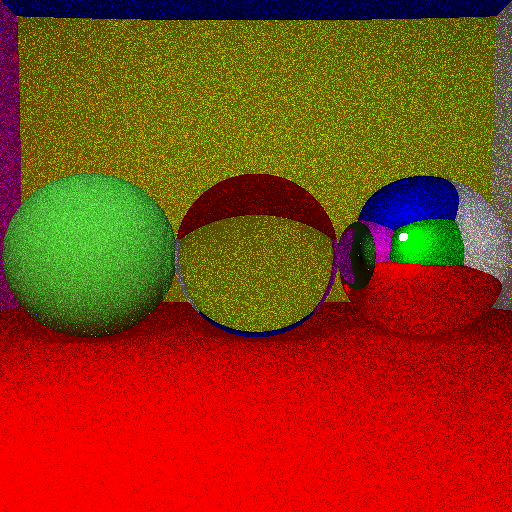
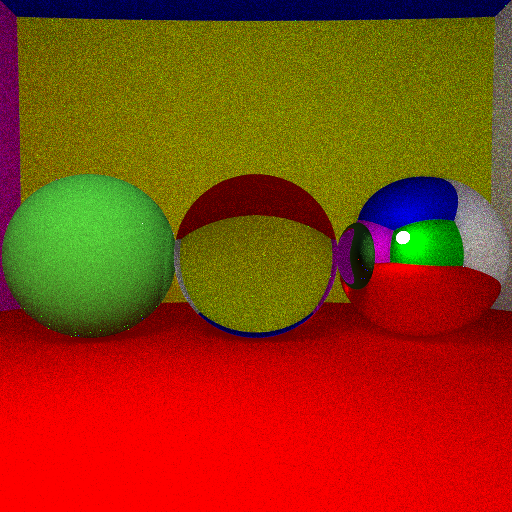
Application de la profondeur de champ. Image générée au bout de 241 secondes (car on a augmenté le nombre de rayons émis par pixel)

diff --git a/main.cpp b/main.cpp
@@ -100,7 +100,7 @@ int main() {
 	int W = 512; // Largeur de l'image
 	int H = 512; // Hauteur de l'image
 
-	int ratioRayPerPixel = 100; // Nombre de rays envoyes pour chaque pixel (pour l'eclairage indirecte)
+	int ratioRayPerPixel = 200; // Nombre de rays envoyes pour chaque pixel (pour l'eclairage indirecte)
 	
 	/* Test de la classe Vect
 	Vect u(2, 3, 4);
@@ -127,7 +127,8 @@ int main() {
 	double fieldOfView = 60 * M_PI / 180; // Champ de vision
 
 	bool useGammaCorrection = true; // true : Activation de la correction Gamma
-	bool useAntiAliasing = false; // true : Activation de l'anti-crenelage
+	bool useAntiAliasing = true; // true : Activation de l'anti-crenelage
+	bool useDepthOfField = true; // true : Activation de l'effet de profondeur de champ
 	double lightIntensity;
 
 	if (useGammaCorrection) {
@@ -146,9 +147,9 @@ int main() {
 	scene.setLightOrigin(lightOrigin);
 
 	//Declaration des elements de la scene
-	Sphere lumiere(scene.getLightOrigin(), 5, Vect(255., 255., 255.)); // Lampe spherique
-	Sphere Sdiffuse(Vect(-20, 0, 0), 10, Vect(21., 137., 10.)); // Sphere principale verte
-	Sphere Smiroir(Vect(20, 0, 0), 10, Vect(21., 137., 10.), true); // Sphere principale miroir
+	Sphere lumiere(scene.getLightOrigin(), 7, Vect(255., 255., 255.)); // Lampe spherique
+	Sphere Sdiffuse(Vect(-15, 0, 20), 10, Vect(21., 137., 10.)); // Sphere principale verte
+	Sphere Smiroir(Vect(15, 0, -20), 10, Vect(21., 137., 10.), true); // Sphere principale miroir
 	Sphere Stransparente(Vect(0, 0, 0), 10, Vect(21., 137., 10.), false, true); // Sphere principale transparente
 	Sphere sol(Vect(0, -1000, 0), 990, Vect(255., 0., 0.));
 	Sphere plafond(Vect(0, 1000, 0), 940, Vect(0., 0., 255.));
@@ -177,7 +178,7 @@ int main() {
 #pragma omp parallel for schedule(dynamic,1)
 	for (int i = 0; i < H; i++) {
 		if (i % 50 == 0) {
-			cout << i << endl;
+			cout << i << " / " << H << " lignes parcourues" << endl;
 		}
 		for (int j = 0; j < W; j++) {
 
@@ -205,7 +206,35 @@ int main() {
 					// La direction du ray est pertubee par l'ajout du vecteur (x, y, 0)
 					Vect disturbedDirection(j - W / 2 + x + 0.5, i - H / 2 + y + 0.5, -W / (2. * tan(fieldOfView / 2)));
 					disturbedDirection = disturbedDirection.normalize(); // la direction du rayon doit toujours etre normee
-					Ray disturbedRay(cameraOrigin, disturbedDirection); // Ray partant de la camera vers une zone voisine au centre du pixel de l'image
+					Ray disturbedRay(Vect(0., 0., 0.), Vect(0., 0., 0.)); // Ray partant de la camera vers une zone voisine au centre du pixel de l'image
+
+
+					if (useDepthOfField) { // Application de la profondeur de champ
+						// Nous calculons des nombres aléatoires suivant une loi normale centree par la transformation de Box-Muller.
+						// Ces nombres aleatoires appartiennent aux coordoonees d'un point situe dans le disque d'ouverture de la camera.
+						// Apres avoir fait la mise au point de la camera sur une cible, nous envoyons un rayon depuis le point aleatoire vers la cible.
+
+						u1 = uniform(engine); // echantillon suivant la loi uniforme U[0,1]
+						u2 = uniform(engine); // echantillon suivant la loi uniforme U[0,1]
+
+						// Calcul des coordonnees aleatoires suivant la loi normale centree d'ecart-type sigma
+						// via la transformation de Box-Muller
+						x = sigma * cos(2 * M_PI * u1) * sqrt(-2 * log(u2));
+						y = sigma * sin(2 * M_PI * u1) * sqrt(-2 * log(u2));
+
+						Vect focusPoint = cameraOrigin + 55 * disturbedDirection; // Mise au point de la camera
+						Vect randomPoint = cameraOrigin + Vect(x, y, 0.); // Point aleatoire dans le disque d'ouverture
+						Vect randomPointToFocusPoint = focusPoint - randomPoint;
+						randomPointToFocusPoint = randomPointToFocusPoint.normalize();
+
+						disturbedRay.setOrigin(randomPoint);
+						disturbedRay.setDirection(randomPointToFocusPoint);
+					}
+					else { // pas d'effet de profondeur de champ
+						disturbedRay.setOrigin(cameraOrigin);
+						disturbedRay.setDirection(disturbedDirection);
+					}
+					
 
 					// Calcul de la couleur du pixel
 					// Pour observer l'effet de l'eclairage indirecte, nous envoyons un certain nombre de rays pour chaque pixel de l'image
@@ -218,7 +247,34 @@ int main() {
 				// Calcul du ray envoye par la camera
 				Vect direction(j - W / 2, i - H / 2, -W / (2. * tan(fieldOfView / 2)));
 				direction = direction.normalize(); // la direction du rayon doit toujours etre normee
-				Ray ray(cameraOrigin, direction); // Ray partant de la camera vers le centre du pixel de l'image
+				Ray ray(Vect(0., 0., 0.), Vect(0., 0., 0.)); // Ray partant de la camera vers le centre du pixel de l'image
+
+				if (useDepthOfField) { // Application de la profondeur de champ
+						// Nous calculons des nombres aléatoires suivant une loi normale centree par la transformation de Box-Muller.
+						// Ces nombres aleatoires appartiennent aux coordoonees d'un point situe dans le disque d'ouverture de la camera.
+						// Apres avoir fait la mise au point de la camera sur une cible, nous envoyons un rayon depuis le point aleatoire vers la cible.
+					
+					double sigma = 0.25; // Ecart-type de la loi normale
+					double u1 = uniform(engine); // echantillon suivant la loi uniforme U[0,1]
+					double u2 = uniform(engine); // echantillon suivant la loi uniforme U[0,1]
+
+					// Calcul des coordonnees aleatoires suivant la loi normale centree d'ecart-type sigma
+					// via la transformation de Box-Muller
+					double x = sigma * cos(2 * M_PI * u1) * sqrt(-2 * log(u2));
+					double y = sigma * sin(2 * M_PI * u1) * sqrt(-2 * log(u2));
+
+					Vect focusPoint = cameraOrigin + 55 * direction; // Mise au point de la camera
+					Vect randomPoint = cameraOrigin + Vect(x, y, 0.); // Point aleatoire dans le disque d'ouverture
+					Vect randomPointToFocusPoint = focusPoint - randomPoint;
+					randomPointToFocusPoint = randomPointToFocusPoint.normalize();
+
+					ray.setOrigin(randomPoint);
+					ray.setDirection(randomPointToFocusPoint);
+				}
+				else { // pas d'effet de profondeur de champ
+					ray.setOrigin(cameraOrigin);
+					ray.setDirection(direction);
+				}
 
 				// Calcul de la couleur du pixel
 				// Pour observer l'effet de l'eclairage indirecte, nous envoyons un certain nombre de rays pour chaque pixel de l'image
@@ -255,7 +311,7 @@ int main() {
 	}
 
 	// Ecriture de l'image sous format PNG
-	stbi_write_png("OmbreDouce.png", W, H, 3, &image[0], 0);
+	stbi_write_png("ProfondeurDeChamp.png", W, H, 3, &image[0], 0);
 	time(&endTime);
 	cout << "Image enregistree au format PNG au bout de " << difftime(endTime,beginTime) << " seconde(s) !" << endl;
 	return 0;

diff --git a/Ray.cpp b/Ray.cpp
@@ -14,3 +14,15 @@ Vect& Ray::getDirection() {
 	// Accesseur de la direction du rayon
 	return direction;
 }
+
+void Ray::setOrigin(Vect& O)
+{
+	// Mutateur de l'origine du rayon
+	origin = O;
+}
+
+void Ray::setDirection(Vect& u)
+{
+	// Mutateur de la direction du rayon
+	direction = u;
+}

diff --git a/Ray.h b/Ray.h
@@ -7,6 +7,8 @@ public:
 	Ray(const Vect& O,const Vect& u);
 	Vect& getOrigin();
 	Vect& getDirection();
+	void setOrigin(Vect& O);
+	void setDirection(Vect& u);
 private:
 	Vect origin;
 	Vect direction;
